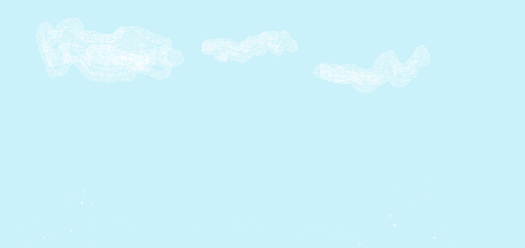
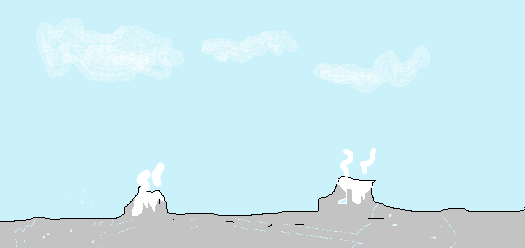
Alterar background game-over

Changed region(s): [[0.0, 0.5927, 1.0, 1.0]]

diff --git a/style.css b/style.css
@@ -21,11 +21,10 @@ body {
 }
 
 .game-over {
-  color: #035e70;
-  font-family: 'Monoton', arial;
-  font-size: 100px;
-  margin-top: 300px;
-  text-align: center;
+  background-repeat: repeat-x;
+  bottom: 0;
+  height: 100%;
+  width: 100%; 
 }
 
 @keyframes sliderigth {
@@ -39,7 +38,7 @@ body {
 
 .background {
   animation: sliderigth 2000s infinite linear;
-  background-image: url(img/background2.png);
+  background-image: url(img/background.png);
   background-repeat: repeat-x;
   bottom: 0;
   height: 200px;

diff --git a/script.js b/script.js
@@ -52,7 +52,8 @@ function createPtero () {
     } else if (pteroPosition > 0 && pteroPosition < 150 && position < 150){
       // Game Over
       clearInterval(leftInterval);
-      document.body.innerHTML = '<h1 class="game-over">Game Over</h1>';
+      //document.body.innerHTML = '<h1 class="game-over">Game Over</h1>';
+      document.body.innerHTML = '<img class="game-over" src="img/background-gameover.png"/>';
     } else {
       pteroPosition -= 20;
       ptero.style.left = pteroPosition + 'px';
